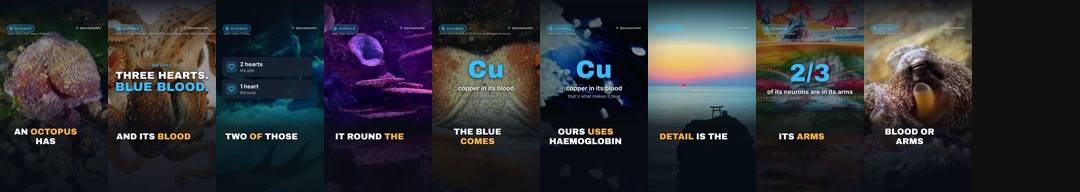
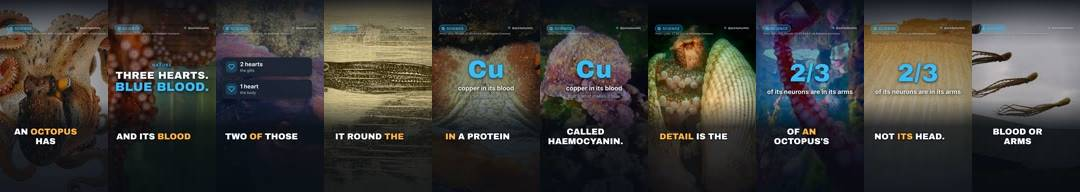
Results from run 34

diff --git a/review/README.md b/review/README.md
@@ -6,10 +6,13 @@ Instagram: connected as quickplaydaily · TikTok: connected (checked Sun 18 Oct 
 
 ## Needs a look
 
-- **QD-030** Octopus: three hearts and blue blood 🐙: failed. RuntimeError: no usable media for beat: The third pushes it round the rest of th
 - **TEST-L1** Street Fighter hits cinemas today 🥊: failed. RuntimeError: checks failed: unclear narration in beats [2, 3]
 - **TEST-L2** Street Fighter hits cinemas today 🥊: failed. RuntimeError: checks failed: unclear narration in beats [2, 3]
 - **TEST-L3** Street Fighter hits cinemas today 🥊: failed. RuntimeError: checks failed: unclear narration in beats [2, 3]
+
+## In the queue
+
+- **TEST-S1018** Street Fighter hits cinemas today 🥊 (rendering next)
 
 ## On the channel (latest first)
 
@@ -20,7 +23,7 @@ scheduled · [script](../backlog/QD-025) · [YouTube](https://youtube.com/shorts
 scheduled · [script](../backlog/QD-026) · [YouTube](https://youtube.com/shorts/8AshrRUmQ1Y)
 
 ### Sun 18 Oct 22:30 · Tekken 8's next fighter is a manga legend 💪
-scheduled · [script](../backlog/QD-022) · [YouTube](https://youtube.com/shorts/-8hCE6x5JBM)
+private · [script](../backlog/QD-022) · [YouTube](https://youtube.com/shorts/-8hCE6x5JBM)
 
 ### Sun 18 Oct 21:00 · The formula behind a 14 million view Roblox Short 📈
 public · 12 views · [script](../backlog/QD-023) · [YouTube](https://youtube.com/shorts/qLRXY5tuj8A)
